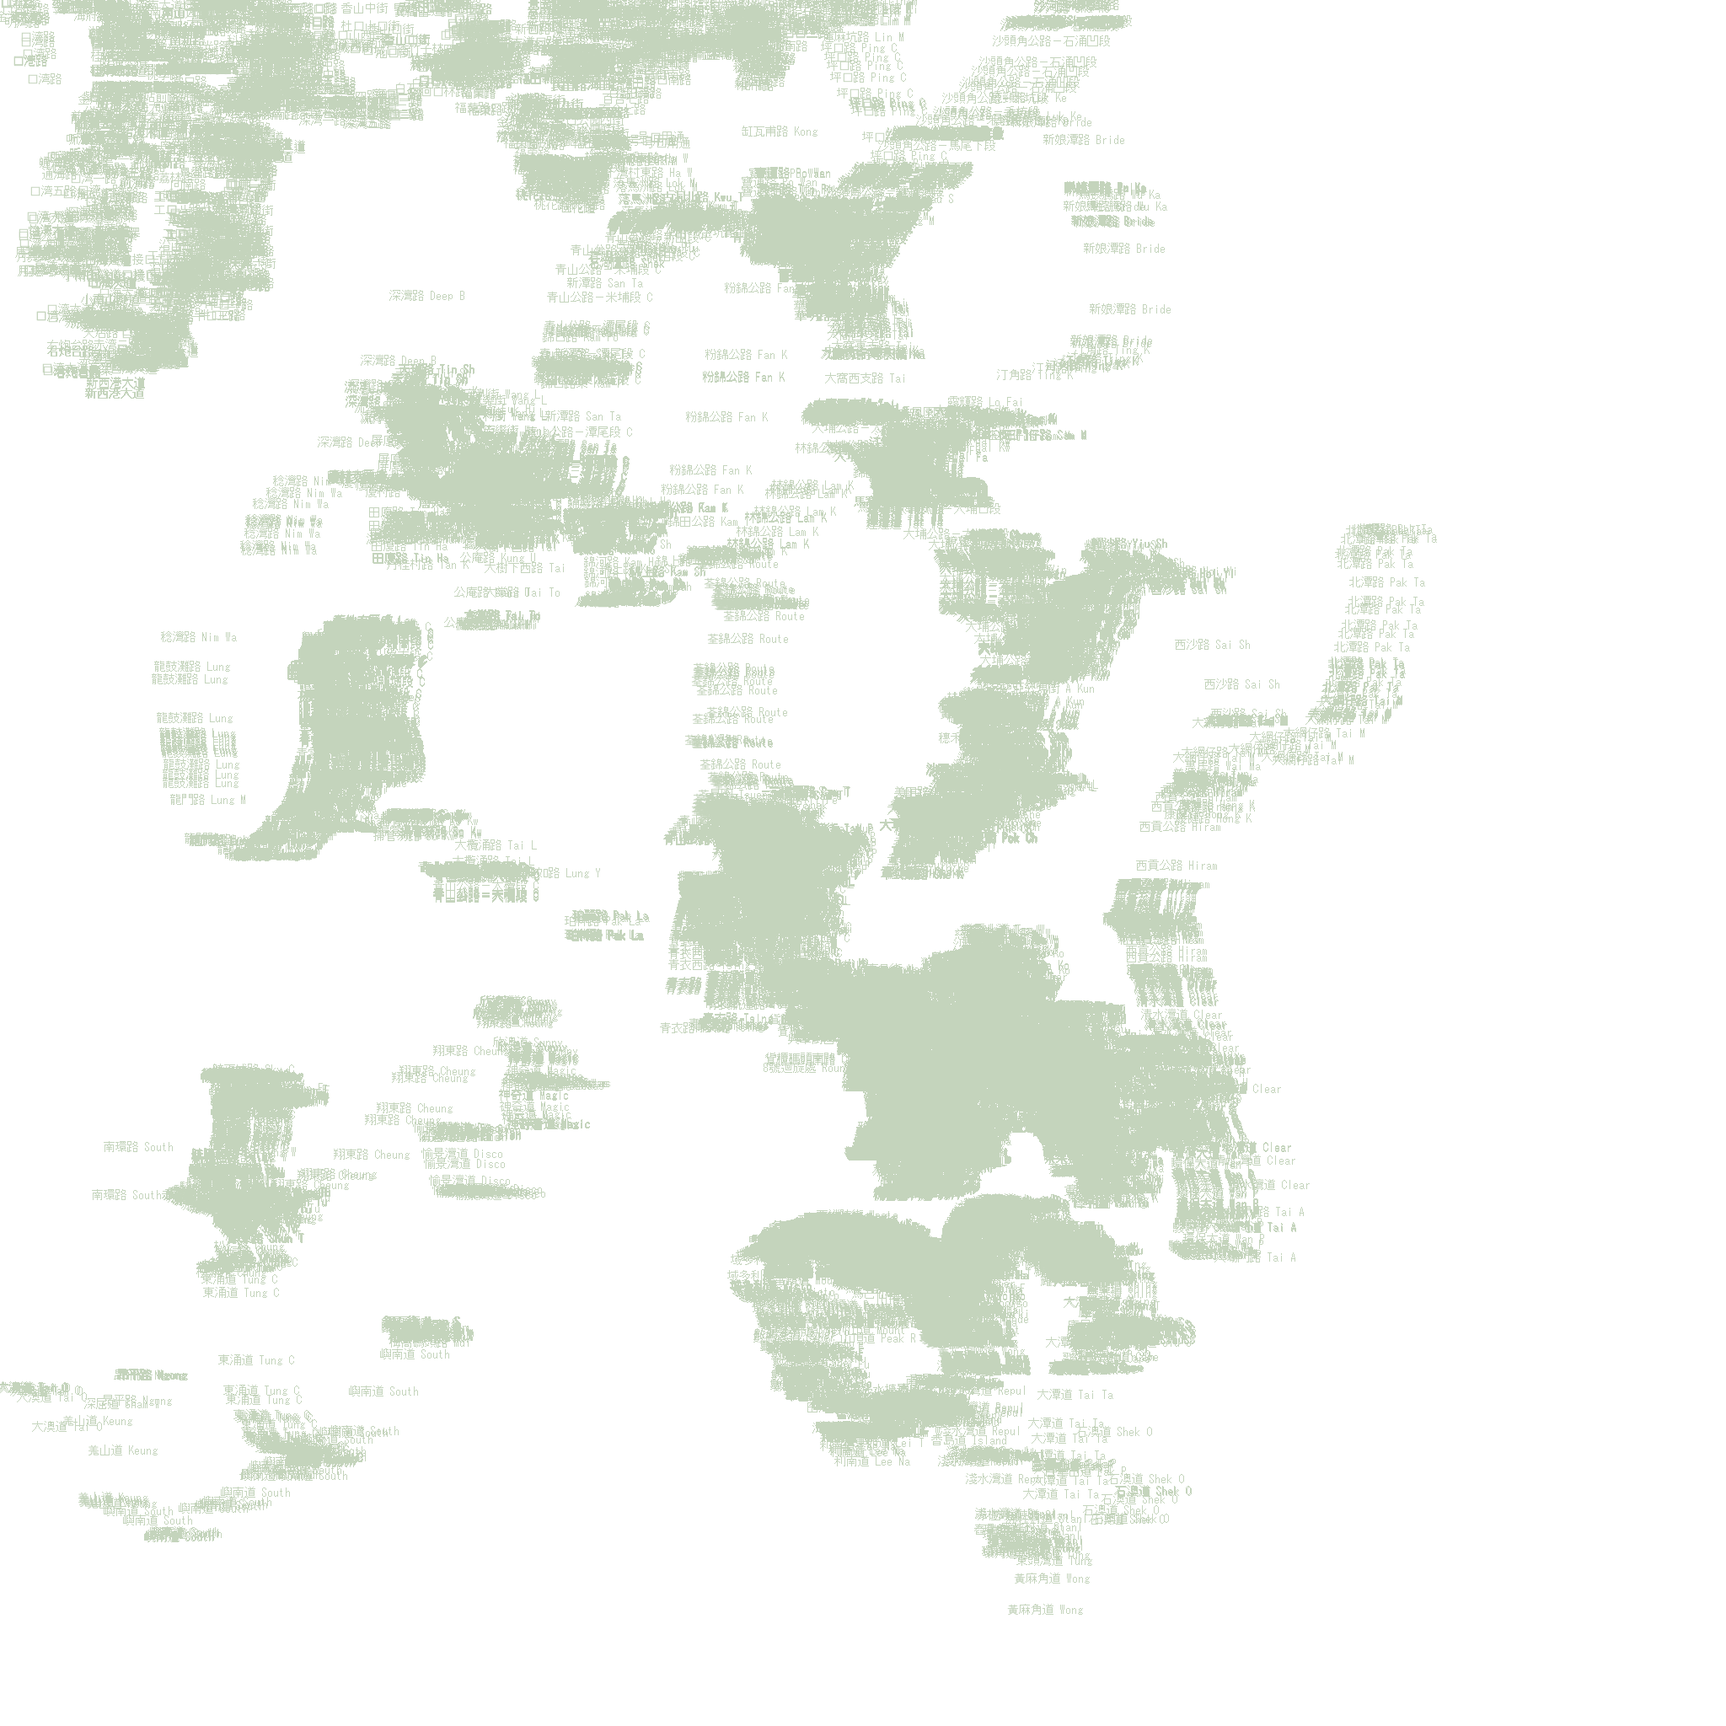
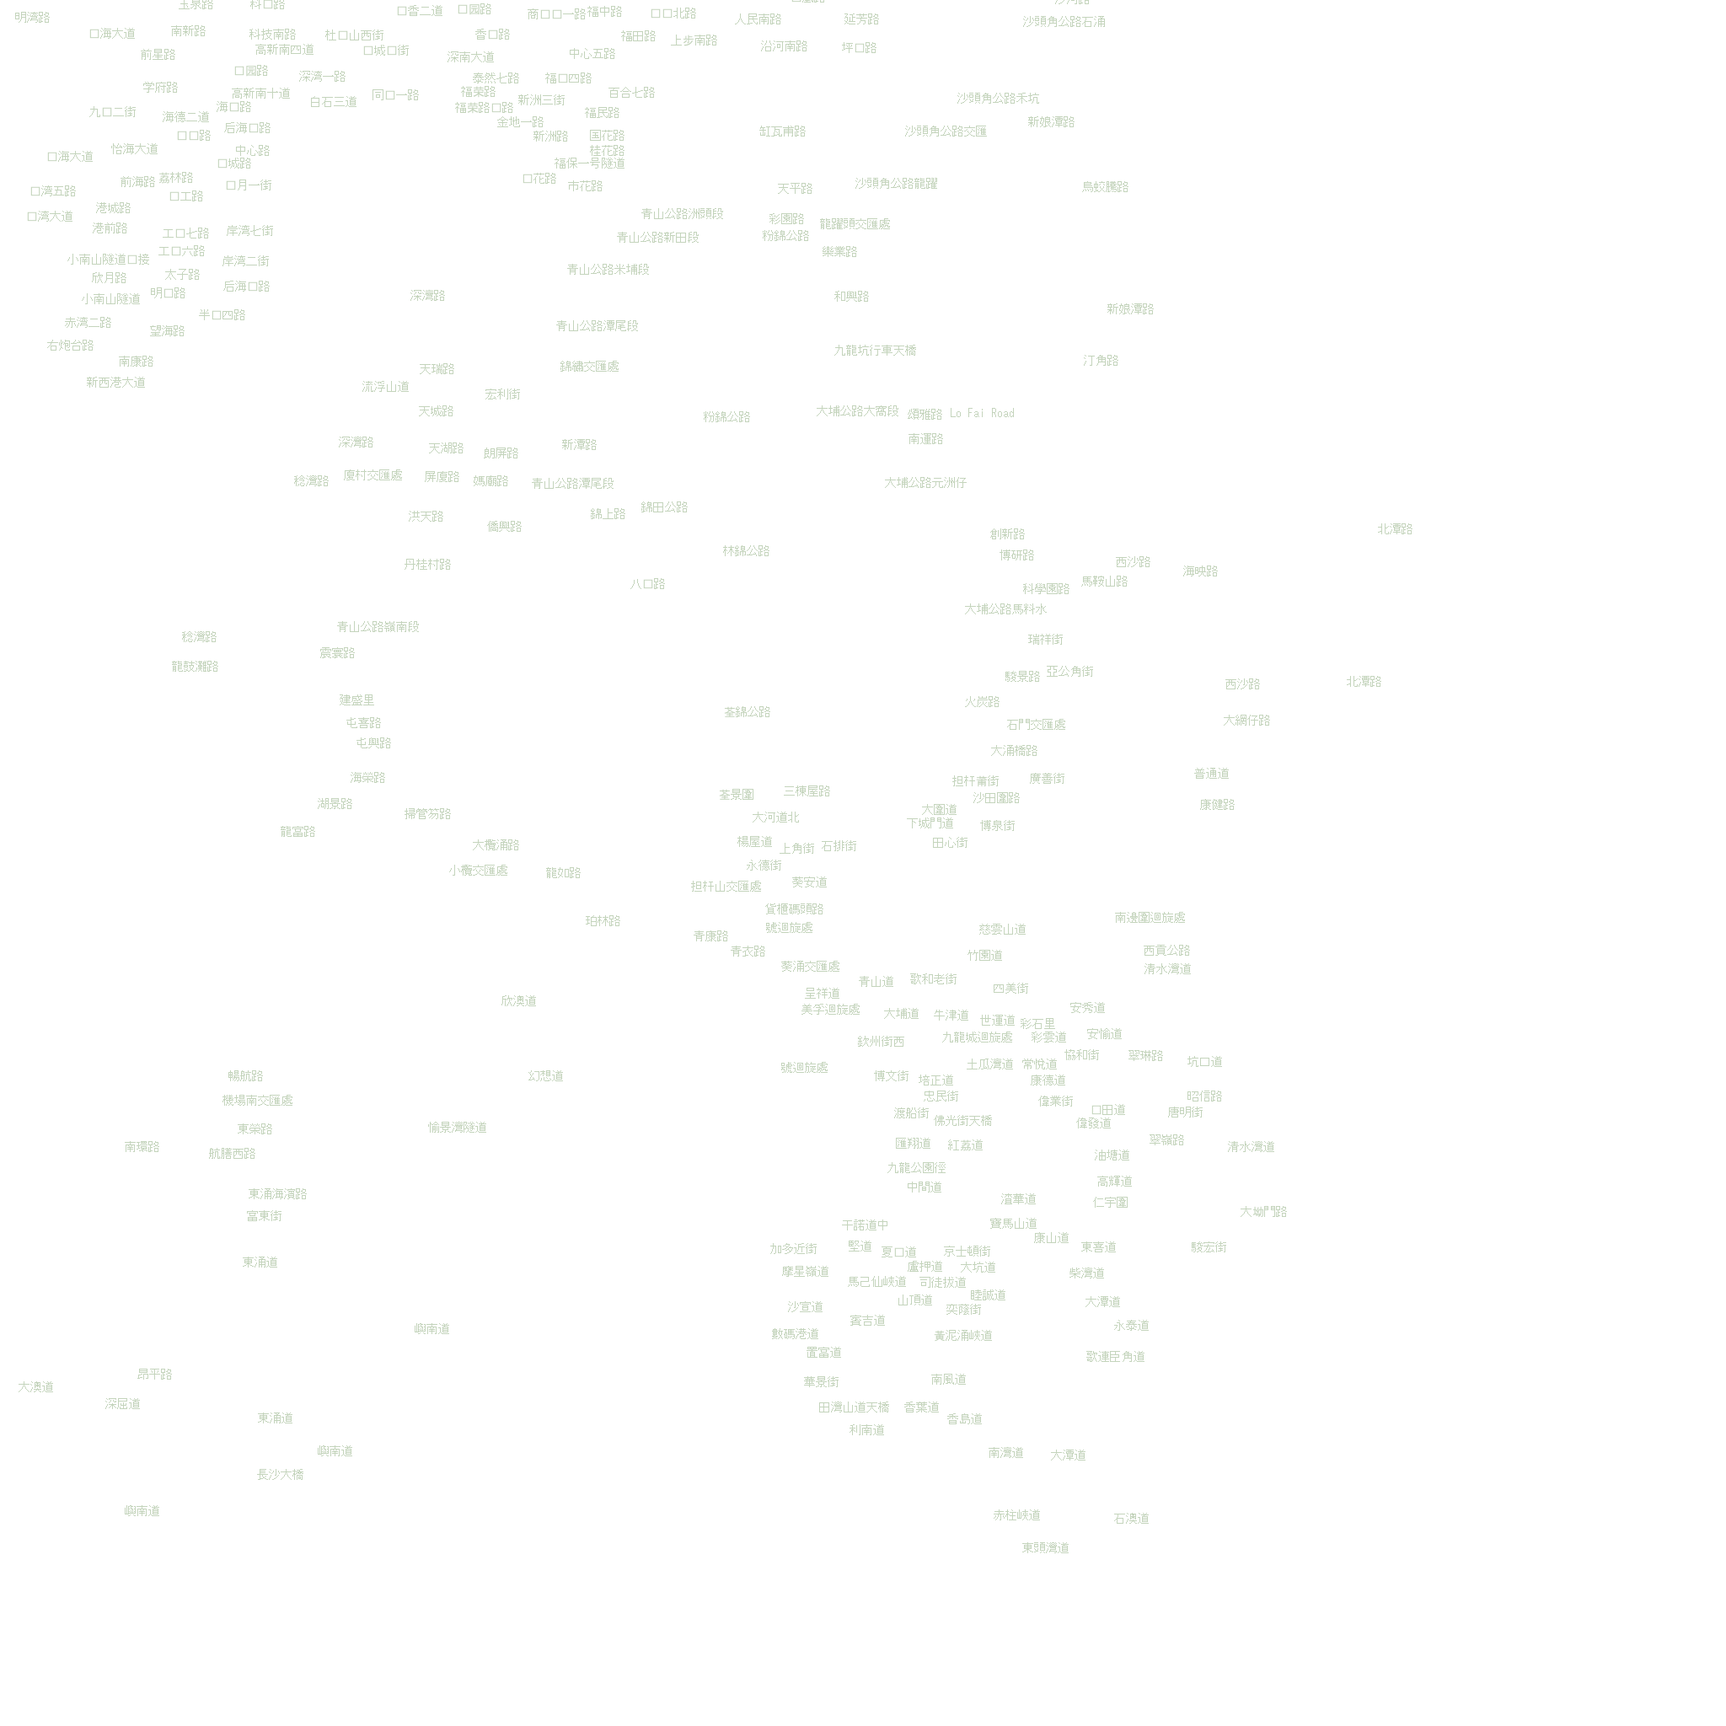
Phase I 第三輪：街道標籤 declutter（16,887 -> 291）
問題
----
render_label_overlay() 原本「一段 way 一個標籤」，零去重、零避碰。OSM 會將
一條道路切成好多段 way，所以重複極嚴重。實測：
- 合資格 way 段（secondary/tertiary 且有 name）：16,887
- 唯一路名：1,515（平均每名 11.1 段）
- 最誇張：英皇道 King's Road 重複 130 次
2048 px 畫布上平均每 15.8 px 一個標籤，必然互相覆蓋 —— 截圖可見
「西貢公路 Hiram」疊 3 層、「清水灣道」疊 4 層。

次要問題：原本用 name[:10] 硬切字元，混合名會斷喺英文詞中間
（「大涌橋路 Tai C」、「清水灣道 Clear」）。

修正
----
新增純函式 plan_labels()（抽離繪圖，方便單元測試）：
1. 按路名分組，同一路名嘅 way 段合併成候選點集合。
2. 同名最小間距 0.09 x size（2048 -> 184 px）+ 每名上限 3 個，
   secondary 優先於 tertiary。
3. 全域碰撞檢測：空間網格（cell = 1.2 x 字高）檢查文字 bbox，
   同已畫標籤重疊即跳過。
排序固定 (等級, 路名) -> deterministic。

新增 _short_label() 取代 name[:10]：
- 名內有中文 -> 只取中文部分（本專案 UI 以粵文為主），最多 7 字。
- 純英文 -> 最多 18 字元，並退到最後一個完整詞。
新增 _is_cjk() 輔助。

結果
----
| 指標        | 前       | 後        |
| 標籤數      | 16,887   | 291       |
| PNG 大小    | 262,862B | 84,763B   |
| 透明像素    | 81.2%    | 98.4%     |
| 同名堆疊    | 130 層   | 0         |

底圖 PNG 保持 byte-identical（sha256 c4ba62a1…），證明改動只影響標籤層。
重構後 plan_labels 輸出與重構前 byte-identical。

測試
----
tests/test_hk_basemap.py 15 -> 26 個測試：_short_label 6 例（parametrize）、
同名重複 60 段 -> 標籤 <= 3、同名標籤距離 >= 最小間距、唔同路名放同一點
-> 只畫一個、忽略非 secondary/tertiary 及無名 way、plan_labels deterministic。
另將 test_label_overlay_is_mostly_transparent 門檻由 0.7 收緊到 0.95。

diff --git a/scripts/render_hk_basemap.py b/scripts/render_hk_basemap.py
@@ -387,6 +387,40 @@ def _load_label_fonts(size: int):
         return None, None
 
 
+def _short_label(name: str, max_cjk: int = 7, max_latin: int = 18) -> str:
+    """把道路名縮短到適合 14 px 標籤嘅長度。
+
+    為何唔可以簡單 `name[:10]`
+    --------------------------
+    OSM 香港道路名通常係「中文 English」混合（例如
+    「大涌橋路 Tai Chung Kiu Road」）。按字元數硬切會變成
+    「大涌橋路 Tai C」—— 英文斷喺半個字中間，中文亦可能被切斷。
+
+    策略：
+    - 名內有中文 → 只取中文部分（本專案 UI 以粵文為主），最多 `max_cjk` 字。
+    - 純英文 → 最多 `max_latin` 個字元，並且退到最後一個完整詞。
+    """
+    cjk = "".join(ch for ch in name if _is_cjk(ch))
+    if len(cjk) >= 2:
+        return cjk[:max_cjk]
+    if len(name) <= max_latin:
+        return name
+    cut = name[:max_latin]
+    if " " in cut:
+        cut = cut.rsplit(" ", 1)[0]
+    return cut or name[:max_latin]
+
+
+def _is_cjk(ch: str) -> bool:
+    """粗略判斷 CJK 漢字（涵蓋常用區同擴展 A 區）。"""
+    cp = ord(ch)
+    return (
+        0x3400 <= cp <= 0x4DBF      # 擴展 A
+        or 0x4E00 <= cp <= 0x9FFF   # 基本區
+        or 0xF900 <= cp <= 0xFAFF   # 相容表意
+    )
+
+
 def render_label_overlay(data: dict[str, Any], size: int) -> Image.Image:
     """Phase I：獨立嘅透明標籤圖層（secondary / tertiary 道路名）。
 
@@ -400,6 +434,24 @@ def render_label_overlay(data: dict[str, Any], size: int) -> Image.Image:
 
     輸出係 RGBA 透明圖，座標系同底圖完全一致（同一 bbox、同一 size），
     所以前端可以將兩個 <image> 用相同 x/y/width/height 疊埋一齊。
+
+    為何要 declutter（2026-09-15 修正）
+    ----------------------------------
+    OSM 會將一條道路切成好多段 way，所以「一段一個標籤」會嚴重重複。
+    實測：16,887 段合資格 way 只對應 **1,515 個唯一路名**（平均 11.1 次），
+    最誇張係「英皇道 King's Road」重複 **130 次**。喺 2048 px 畫布上等於
+    平均每 15.8 px 就有一個標籤，必然互相堆疊，地圖上會出現同一路名
+    連續疊六、七層嘅情況。
+
+    修正策略（三層）：
+    1. **按路名分組** —— 同一路名嘅所有 way 段先合併成候選點集合。
+    2. **同名最小間距** —— 同名標籤之間至少隔 `MIN_SAME_NAME_PX`，
+       每個路名最多 `MAX_PER_NAME` 個（長道路仍然可以出現幾次）。
+    3. **全域碰撞檢測** —— 用空間網格（cell ≈ 1.2 × 字高）檢查文字
+       bbox，同已畫標籤重疊就跳過。
+
+    排序固定為 (等級, 路名)，令輸出 deterministic（同一輸入永遠同一 PNG）。
+    純邏輯抽喺 `plan_labels()`，方便單元測試。
     """
     overlay = Image.new("RGBA", (size, size), (0, 0, 0, 0))
     draw = ImageDraw.Draw(overlay, "RGBA")
@@ -409,14 +461,54 @@ def render_label_overlay(data: dict[str, Any], size: int) -> Image.Image:
         print("  (no font; empty label overlay)", file=sys.stderr)
         return overlay
 
-    elements = data.get("elements", [])
-    n = 0
-    secondary_roads = ("secondary", "tertiary")
+    placed, stats = plan_labels(
+        data.get("elements", []), size, label_font_small
+    )
+    for name, x, y in placed:
+        try:
+            draw.text(
+                (x, y), _short_label(name), fill=(180, 200, 170, 200),
+                font=label_font_small, anchor="mm", spacing=1,
+            )
+        except Exception:
+            pass
+
+    print(
+        f"  label overlay: {len(placed)} 個街道標籤"
+        f"（候選 {stats['candidates']}，合資格 way 段 {stats['ways']}，"
+        f"唯一路名 {stats['names']}）"
+    )
+    return overlay
+
+
+def plan_labels(
+    elements: list[dict[str, Any]],
+    size: int,
+    font: Any,
+    min_same_ratio: float = 0.09,
+    max_per_name: int = 3,
+    cell_ratio: float = 1.2,
+) -> tuple[list[tuple[str, int, int]], dict[str, int]]:
+    """計算最終應該畫嘅街道標籤（去重 + 避碰），唔會真正繪圖。
+
+    抽做獨立函式係為咗可以喺測試入面用合成資料驗證 declutter 行為，
+    唔需要 182 MB 嘅 OSM cache。
+
+    回傳 `(placed, stats)`：
+    - `placed`：`(name, x, y)` 清單，順序即繪圖順序（deterministic）。
+    - `stats`：`{"ways", "names", "candidates"}` 統計數字。
+    """
+    probe = ImageDraw.Draw(Image.new("RGBA", (1, 1)))
+
+    # --- 1) 收集候選點，按路名分組 ---------------------------------------
+    by_name: dict[str, list[tuple[int, int, int]]] = {}
+    n_ways = 0
     for el in elements:
         if el.get("type") != "way":
             continue
         tags = el.get("tags", {}) or {}
-        if tags.get("highway") not in secondary_roads:
+        hw = tags.get("highway")
+        if hw not in ("secondary", "tertiary"):
             continue
         name = tags.get("name")
         if not name:
@@ -426,17 +518,49 @@ def render_label_overlay(data: dict[str, Any], size: int) -> Image.Image:
             continue
         mid = pts[len(pts) // 2]
         x, y = lonlat_to_px(mid[0], mid[1], size)
-        txt = name[:10] if len(name) > 10 else name
+        # rank: 0 = secondary（較重要，優先畫）, 1 = tertiary
+        by_name.setdefault(name, []).append((0 if hw == "secondary" else 1, x, y))
+        n_ways += 1
+
+    # --- 2) 同名內部篩選（最小間距 + 上限） ------------------------------
+    min_same_px = min_same_ratio * size
+    min_sq = min_same_px * min_same_px
+    candidates: list[tuple[int, str, int, int]] = []
+    for name, pts in by_name.items():
+        chosen: list[tuple[int, int]] = []
+        # secondary 優先；同名內部再按座標排序，確保 deterministic
+        for rank, x, y in sorted(pts, key=lambda p: (p[0], p[2], p[1])):
+            if len(chosen) >= max_per_name:
+                break
+            if any((x - cx) ** 2 + (y - cy) ** 2 < min_sq for cx, cy in chosen):
+                continue
+            chosen.append((x, y))
+        for x, y in chosen:
+            candidates.append((rank, name, x, y))
+
+    # --- 3) 全域碰撞檢測（空間網格） -------------------------------------
+    font_px = max(1, getattr(font, "size", size // 140))
+    cell = max(4, int(round(font_px * cell_ratio)))
+    occupied: set[tuple[int, int]] = set()
+    placed: list[tuple[str, int, int]] = []
+    for _rank, name, x, y in sorted(candidates, key=lambda c: (c[0], c[1])):
+        txt = _short_label(name)
         try:
-            draw.text(
-                (x, y), txt, fill=(180, 200, 170, 200),
-                font=label_font_small, anchor="mm", spacing=1,
-            )
-            n += 1
-        except Exception:
-            pass
-    print(f"  label overlay: {n} 個街道標籤")
-    return overlay
+            bbox = probe.textbbox((x, y), txt, font=font, anchor="mm")
+        except Exception:  # pragma: no cover - 退化字體
+            bbox = (x - cell, y - cell, x + cell, y + cell)
+        cells = {
+            (cx, cy)
+            for cx in range(bbox[0] // cell, bbox[2] // cell + 1)
+            for cy in range(bbox[1] // cell, bbox[3] // cell + 1)
+        }
+        if cells & occupied:
+            continue
+        occupied |= cells
+        placed.append((name, x, y))
+
+    stats = {"ways": n_ways, "names": len(by_name), "candidates": len(candidates)}
+    return placed, stats
 
 
 def main() -> int:

diff --git a/tests/test_hk_basemap.py b/tests/test_hk_basemap.py
@@ -193,9 +193,10 @@ def test_label_overlay_is_mostly_transparent():
         transparent = sum(hist[:16])  # alpha < 16
         total = sum(hist)
     ratio = transparent / total
-    # 16,887 個街道標籤 + 抗鋸齒，實測透明像素約 81%。門檻設 0.7
-    # 足以分辨「稀疏疊加圖層」同「整張不透明圖」。
-    assert ratio > 0.7, f"透明像素比例只有 {ratio:.3f}，圖層可能唔透明"
+    # 291 個街道標籤（declutter 後）+ 抗鋸齒，實測透明像素約 98.4%。
+    # 門檻設 0.95：足以分辨「稀疏疊加圖層」同「整張不透明圖」，
+    # 同時一旦標籤重新爆炸（例如 16,887 個 → 透明度跌到 0.81）就會 fail。
+    assert ratio > 0.95, f"透明像素比例只有 {ratio:.3f}，標籤可能過密或圖層不透明"
 
 
 def test_label_overlay_has_visible_pixels():
@@ -219,3 +220,135 @@ def test_coords_metadata_declares_label_layer():
     assert layers, "coords 缺少 layers metadata"
     assert layers.get("base") == "hk-basemap.png"
     assert layers.get("label_detail") == "hk-basemap-labels.png"
+
+
+# ---------------------------------------------------------------------------
+# Phase I: 街道標籤 declutter（2026-09-15 修正）
+#
+# 原本「一段 way 一個標籤」會令同一路名大量重複：實測 16,887 段合資格 way
+# 只對應 1,515 個唯一路名（平均 11.1 次），「英皇道 King's Road」重複 130 次。
+# 以下測試鎖定 declutter 行為，防止回歸。
+# ---------------------------------------------------------------------------
+
+
+def _load_render_module():
+    """用 importlib 載入 render_hk_basemap.py（唔會執行 main）。"""
+    import importlib.util
+
+    spec = importlib.util.spec_from_file_location("render_hk_basemap", RENDER_SCRIPT)
+    assert spec and spec.loader
+    module = importlib.util.module_from_spec(spec)
+    spec.loader.exec_module(module)
+    return module
+
+
+def _way(name: str, lon: float, lat: float, highway: str = "secondary") -> dict:
+    """合成一個最小 Overpass way（兩點，中點約等於畀定座標）。"""
+    return {
+        "type": "way",
+        "tags": {"highway": highway, "name": name},
+        "geometry": [
+            {"lon": lon - 0.0001, "lat": lat},
+            {"lon": lon + 0.0001, "lat": lat},
+        ],
+    }
+
+
+@pytest.mark.parametrize(
+    "name,expected",
+    [
+        ("大涌橋路 Tai Chung Kiu Road", "大涌橋路"),
+        ("英皇道 King's Road", "英皇道"),
+        ("清水灣道 Clear Water Bay Road", "清水灣道"),
+        ("Clear Water Bay Road", "Clear Water Bay"),
+        ("Queen's Road", "Queen's Road"),
+        ("", ""),
+    ],
+)
+def test_short_label_prefers_cjk_and_cuts_at_word_boundary(name, expected):
+    """中文名只取中文部分；純英文名退到最後一個完整詞，唔會切斷詞語。"""
+    module = _load_render_module()
+    assert module._short_label(name) == expected
+
+
+def test_short_label_caps_cjk_length():
+    module = _load_render_module()
+    long_cjk = "一二三四五六七八九十"
+    out = module._short_label(long_cjk)
+    assert out == "一二三四五六七", f"中文應截到 7 字，實得 {out!r}"
+    assert len(out) == 7
+
+
+def test_plan_labels_deduplicates_repeated_road_name():
+    """同一路名重複 60 段，最多只應該畫 max_per_name 個標籤。"""
+    module = _load_render_module()
+    # 沿一條橫線平均分佈 60 段同一路名
+    els = [
+        _way("測試大道 Test Avenue", 113.90 + i * 0.006, 22.30)
+        for i in range(60)
+    ]
+    placed, stats = module.plan_labels(els, 2048, module._load_label_fonts(2048)[1])
+    assert stats["ways"] == 60
+    assert stats["names"] == 1
+    same = [p for p in placed if p[0] == "測試大道 Test Avenue"]
+    assert 0 < len(same) <= 3, f"同名標籤數 {len(same)} 超出上限 3"
+    assert len(same) < 60, "應該有去重效果"
+
+
+def test_plan_labels_respects_min_spacing_for_same_name():
+    """同名標籤之間必須隔開（唔可以連續疊埋一齊）。"""
+    module = _load_render_module()
+    els = [
+        _way("測試大道 Test Avenue", 113.90 + i * 0.0004, 22.30)
+        for i in range(30)
+    ]
+    placed, _ = module.plan_labels(els, 2048, module._load_label_fonts(2048)[1])
+    same = [p for p in placed if p[0] == "測試大道 Test Avenue"]
+    min_px = 0.09 * 2048
+    for i in range(len(same)):
+        for j in range(i + 1, len(same)):
+            dist = ((same[i][1] - same[j][1]) ** 2 + (same[i][2] - same[j][2]) ** 2) ** 0.5
+            assert dist >= min_px * 0.99, f"同名標籤距離 {dist:.1f} < {min_px:.1f}"
+
+
+def test_plan_labels_avoids_collisions_between_different_names():
+    """兩個唔同路名放喺同一點 → 只可以畫其中一個（避免疊字）。"""
+    module = _load_render_module()
+    els = [
+        _way("第一街 First Street", 114.10, 22.32),
+        _way("第二街 Second Street", 114.10, 22.32),
+    ]
+    placed, _ = module.plan_labels(els, 2048, module._load_label_fonts(2048)[1])
+    assert len(placed) == 1, f"重疊位置應該只畫一個，實得 {len(placed)}"
+
+
+def test_plan_labels_ignores_irrelevant_ways():
+    """非 secondary/tertiary、或者冇名嘅 way 一律唔應該產生標籤。"""
+    module = _load_render_module()
+    els = [
+        _way("住宅小路", 114.10, 22.32, highway="residential"),
+        _way("主要高速", 114.11, 22.32, highway="motorway"),
+        {
+            "type": "way",
+            "tags": {"highway": "secondary"},  # 冇 name
+            "geometry": [{"lon": 114.12, "lat": 22.32}, {"lon": 114.121, "lat": 22.32}],
+        },
+        {"type": "node", "tags": {"highway": "secondary", "name": "唔係 way"}},
+    ]
+    placed, stats = module.plan_labels(els, 2048, module._load_label_fonts(2048)[1])
+    assert placed == []
+    assert stats["ways"] == 0
+
+
+def test_plan_labels_is_deterministic():
+    """同一輸入必須產生完全相同嘅輸出（可重跑、可驗 hash）。"""
+    module = _load_render_module()
+    els = [
+        _way(f"道路{i % 12}", 113.90 + (i % 30) * 0.008, 22.25 + (i // 30) * 0.01)
+        for i in range(90)
+    ]
+    font = module._load_label_fonts(2048)[1]
+    a, _ = module.plan_labels(els, 2048, font)
+    b, _ = module.plan_labels(els, 2048, font)
+    assert a == b
+
